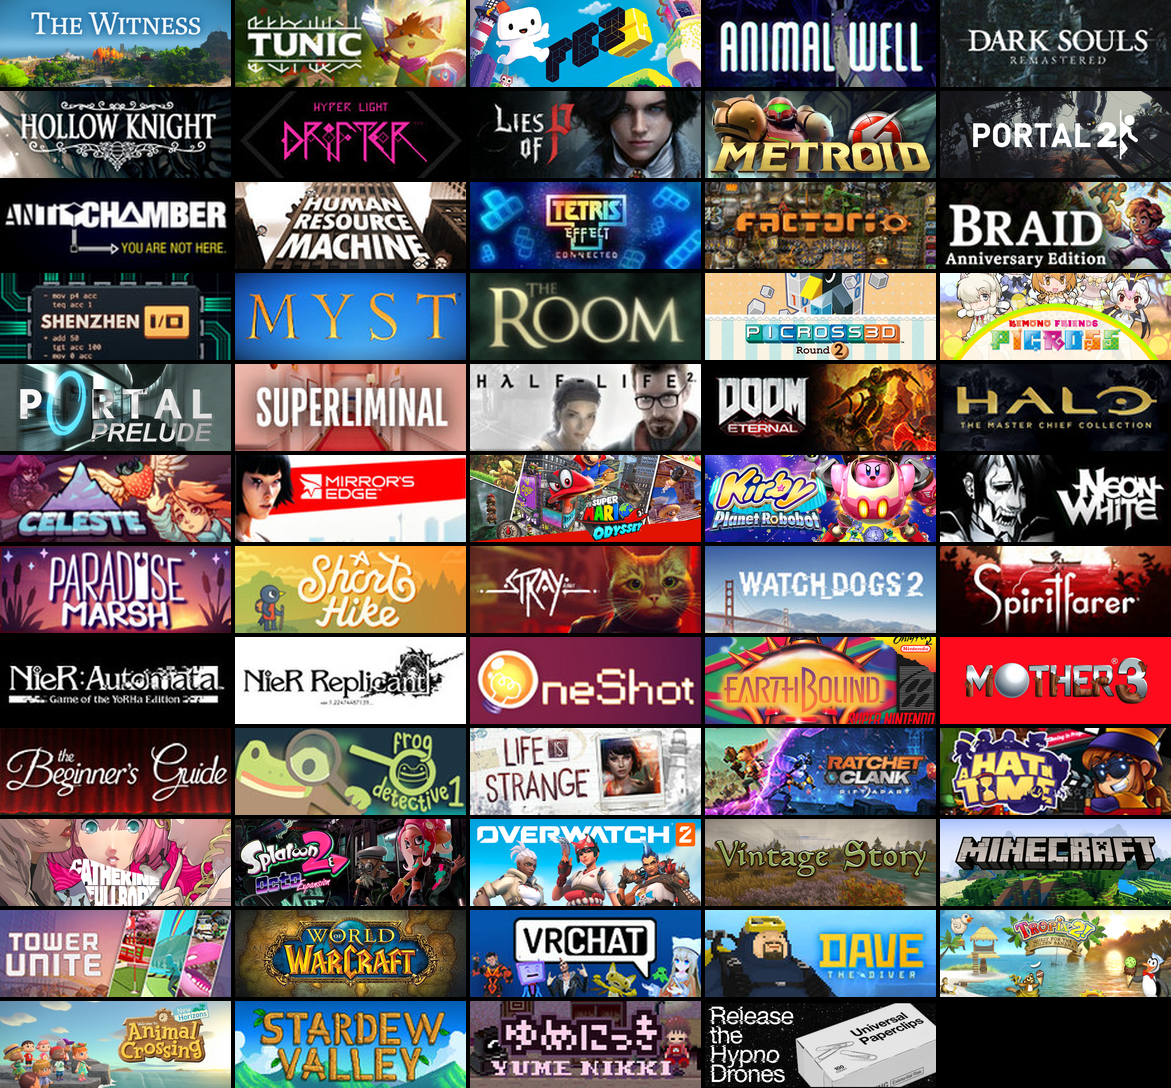
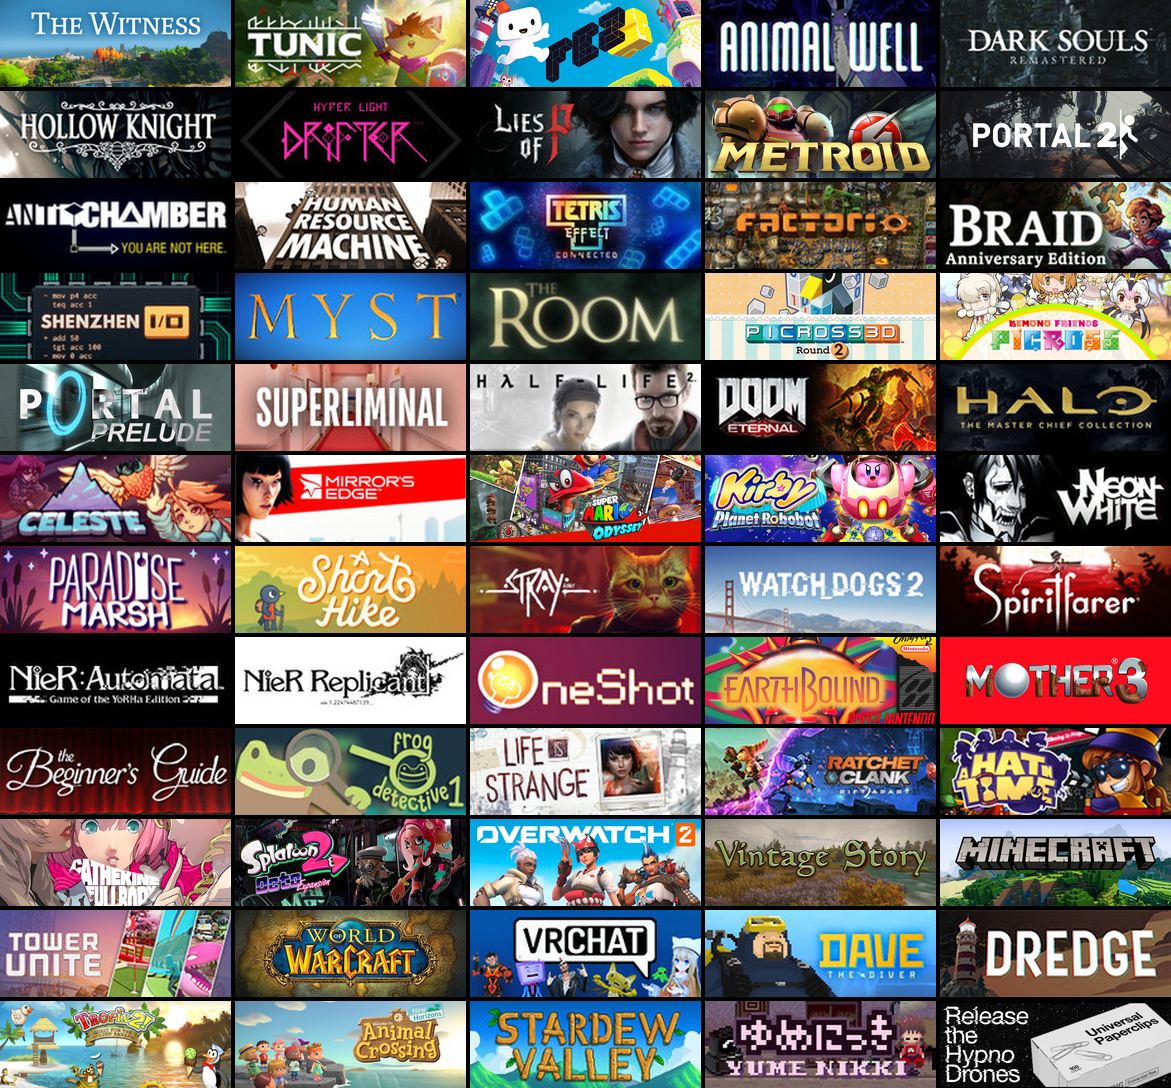
Add dredge to fav games

Changed region(s): [[0.0, 0.8125, 1.0, 1.0]]

diff --git a/cmd/makegames/main.go b/cmd/makegames/main.go
@@ -211,6 +211,7 @@ var games = []gameCategory{
 		Title: "chill",
 		Games: []game{
 			{SteamID: 1868140}, // dave the diver
+			{SteamID: 1562430}, // dredge
 			{
 				Image: "games/tropix-2.png",
 				// TODO: replace with my link?
